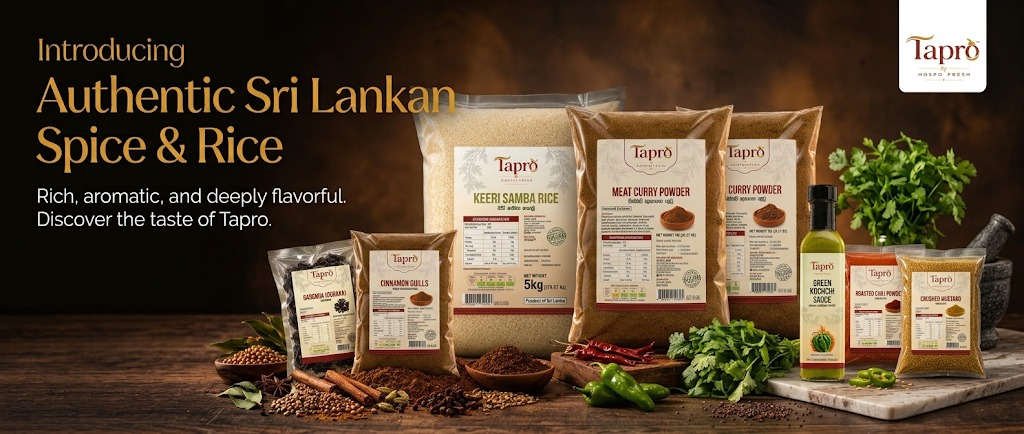
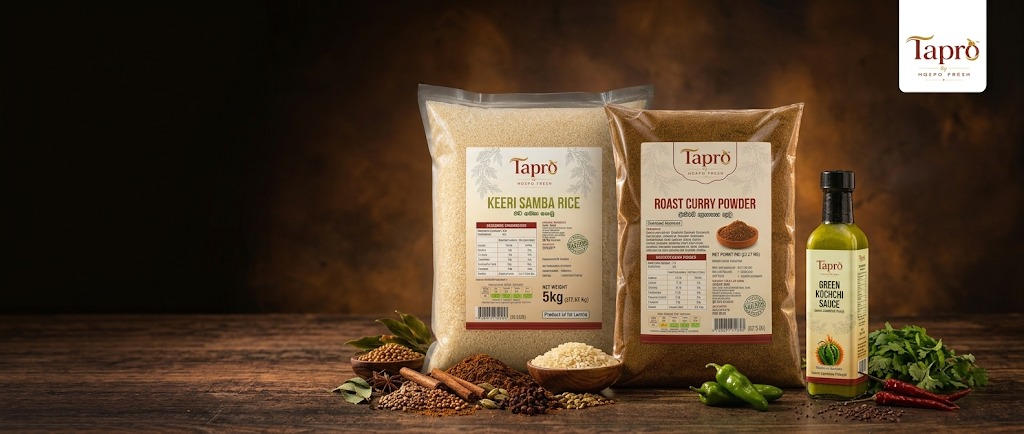
Header changed

diff --git a/app/(tapro)/tapro/globals.css b/app/(tapro)/tapro/globals.css
@@ -126,6 +126,15 @@ body.nav-open { overflow: hidden; }
   background: linear-gradient(180deg, var(--red-shadow), var(--red-deep) 60%, var(--red-shadow));
   overflow: hidden; display: flex; align-items: center; justify-content: center;
 }
+.hero-bg {
+  position: absolute;
+  inset: 0;
+  width: 100%;
+  height: 100%;
+  object-fit: cover;
+  object-position: center;
+  z-index: 0;
+}
 .curtain-tex {
   position: absolute; inset: 0;
   background-image: repeating-linear-gradient(90deg, rgba(0,0,0,.18) 0px, rgba(0,0,0,.18) 2px, rgba(255,255,255,.035) 2px, rgba(255,255,255,.035) 5px, transparent 5px, transparent 24px);
@@ -285,18 +294,17 @@ section { position: relative; padding: min(14vw,150px) 0; }
 .split-copy .heritage-eyebrow { color: var(--gold-light); }
 .split-copy cite { display: block; margin-top: 28px; font-style: normal; font-size: .72rem; letter-spacing: .28em; text-transform: uppercase; color: var(--gold-light); font-weight: 600; }
 .split-art {
-  background: radial-gradient(circle at 30% 30%, rgba(187,133,49,.35), transparent 55%), repeating-radial-gradient(circle at 70% 70%, rgba(42,60,39,.5) 0 2px, transparent 2px 40px), var(--green);
-  position: relative; display: flex; align-items: center; justify-content: center;
-  padding: 40px;
+  background: var(--green);
+  position: relative;
+  overflow: hidden;
 }
 .heritage-banner {
+  position: absolute;
+  inset: 0;
   width: 100%;
-  max-width: 480px;
-  height: auto;
-  border-radius: 8px;
-  box-shadow: 0 20px 50px rgba(0,0,0,.35);
-  position: relative;
-  z-index: 1;
+  height: 100%;
+  object-fit: cover;
+  object-position: center;
 }
 
 /* ---- values ---- */
@@ -359,7 +367,7 @@ footer.site-footer .flogo { font-family: var(--serif); font-style: italic; color
   .marquee-band { padding: 16px 0; }
   .marquee-track { gap: 2rem; animation-duration: 20s; }
   .split-copy { padding: 60px 7vw; }
-  .split-art { min-height: 280px; padding: 40px 24px; }
+  .split-art { min-height: 280px; }
   .heritage-banner { max-width: 320px; }
   #contact p { font-size: .86rem; margin-bottom: 26px; }
   .magnet-btn { padding: 17px 32px; font-size: .7rem; letter-spacing: .22em; }

diff --git a/components/tapro/Hero.tsx b/components/tapro/Hero.tsx
@@ -12,6 +12,8 @@ export default function Hero() {
 
   return (
     <section id="hero" className={open ? 'open' : ''}>
+      {/* eslint-disable-next-line @next/next/no-img-element */}
+      <img src="/Tapro-Header.jpg" alt="" className="hero-bg" />
       <div className="curtain-tex"></div>
       <div className="curtain-vignette"></div>
       <div className="panel left"></div>
